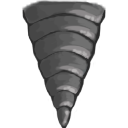
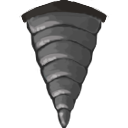
Purple flash for drills on damage

Changed region(s): [[0.1562, 0.0, 0.8438, 0.9688]]

diff --git a/BeeShooterUnity/Assets/Code/Health.cs b/BeeShooterUnity/Assets/Code/Health.cs
@@ -31,14 +31,14 @@ public class Health : MonoBehaviour
 
     public void Flash()
     {
-        StartCoroutine(FlashCo());
+            StartCoroutine(FlashCo());
     }
 
     private IEnumerator FlashCo()
     {
-        spriteRenderer.material = whiteMaterial;
-        yield return new WaitForSeconds(.02f);
-        spriteRenderer.material = initialMaterial;
+        spriteRenderer.color = new Color(.42f, .14f, .78f);
+        yield return new WaitForSeconds(.1f);
+        spriteRenderer.color = Color.white;
     }
 
     public void Explode()
